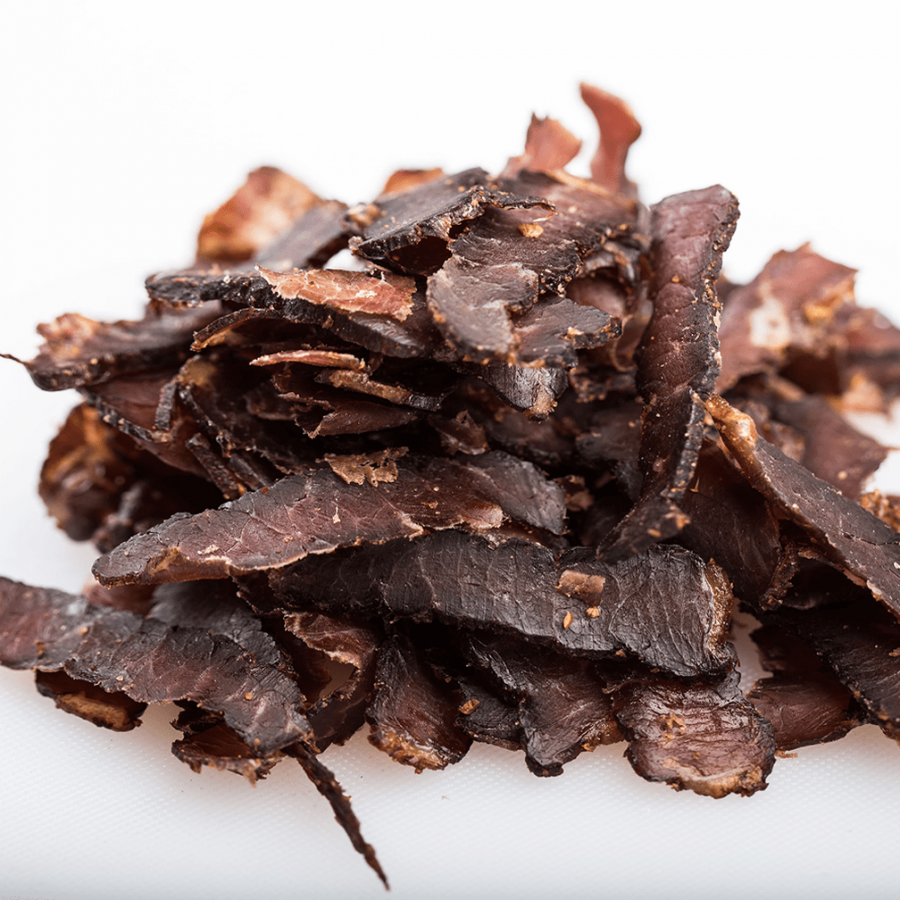
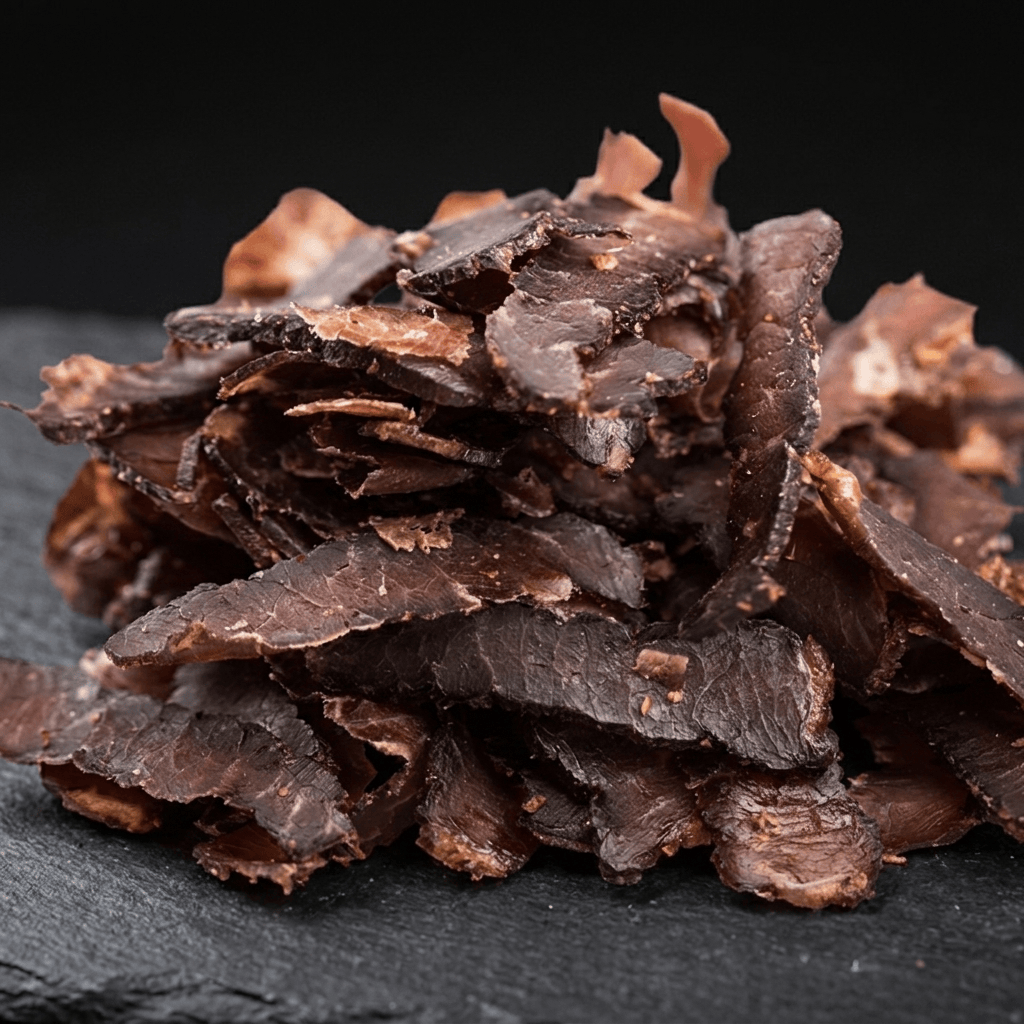
the but

diff --git a/butchery-ecommerce/lib/business.ts b/butchery-ecommerce/lib/business.ts
@@ -1,5 +1,5 @@
 export const BUSINESS = {
-  name: "The Butchery",
+  name: "Rowena Butchery",
   tagline: "Proud. Bold. Fresh off the fire.",
   address: "2 Overdale Road W, Ravensmead, Cape Town, 7493",
   whatsappNumbers: ["0733137963", "0843861098"],
